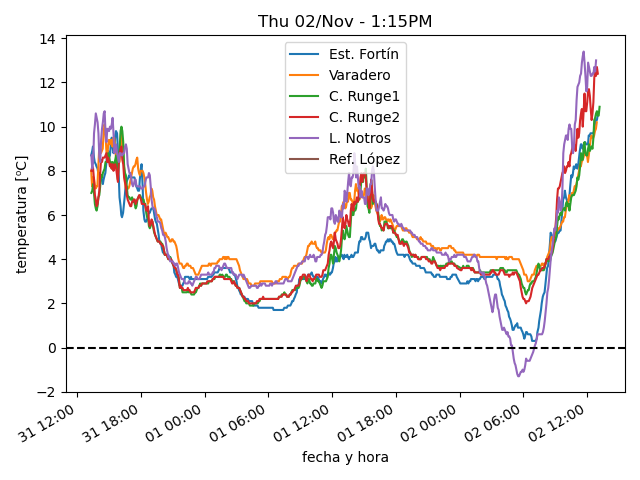
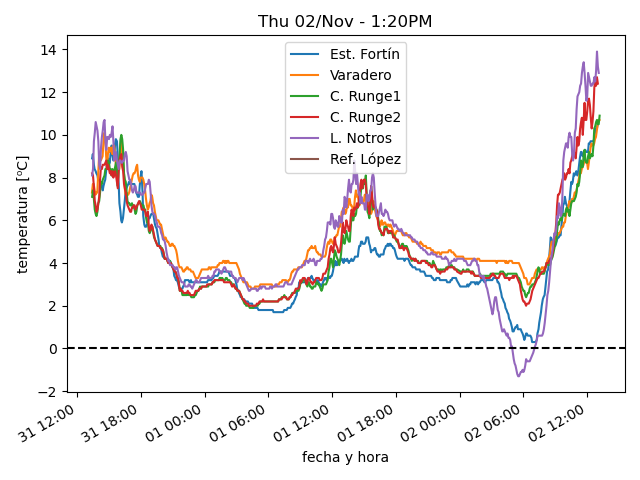
actualiza datos

diff --git a/estaciones/estacion2.html b/estaciones/estacion2.html
@@ -18,22 +18,22 @@
     </tr>
     <tr>
      <td class="stats_data">
-      12:54PM
+      1:09PM
      </td>
     </tr>
     <tr>
      <td class="stats_data">
-      10.2⁰C
+      10.7⁰C
      </td>
     </tr>
     <tr>
      <td class="stats_data">
-      5.1⁰C
+      5.4⁰C
      </td>
     </tr>
     <tr>
      <td class="stats_data">
-      70.2%
+      69.7%
      </td>
     </tr>
     <tr>
@@ -43,7 +43,7 @@
     </tr>
     <tr>
      <td class="stats_data">
-      13.4/15.9 km/hr WNW
+      9.9/11.7 km/hr WNW
      </td>
     </tr>
     <tr>
@@ -53,12 +53,12 @@
     </tr>
     <tr>
      <td class="stats_data">
-      12.0
+      4.0
      </td>
     </tr>
     <tr>
      <td class="stats_data">
-      1301.4 W/m²
+      467.6 W/m²
      </td>
     </tr>
    </tbody>

diff --git a/estaciones/estacion5.html b/estaciones/estacion5.html
@@ -18,27 +18,27 @@
     </tr>
     <tr>
      <td class="stats_data">
-      12:50PM
+      1:05PM
      </td>
     </tr>
     <tr>
      <td class="stats_data">
-      13.0⁰C
+      12.9⁰C
      </td>
     </tr>
     <tr>
      <td class="stats_data">
-      4.9⁰C
+      4.6⁰C
      </td>
     </tr>
     <tr>
      <td class="stats_data">
-      58.0%
+      57.0%
      </td>
     </tr>
     <tr>
      <td class="stats_data">
-      1020.08hPa
+      1019.84hPa
      </td>
     </tr>
     <tr>
